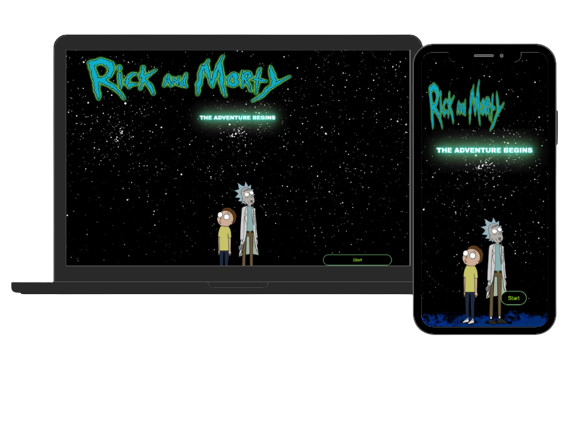
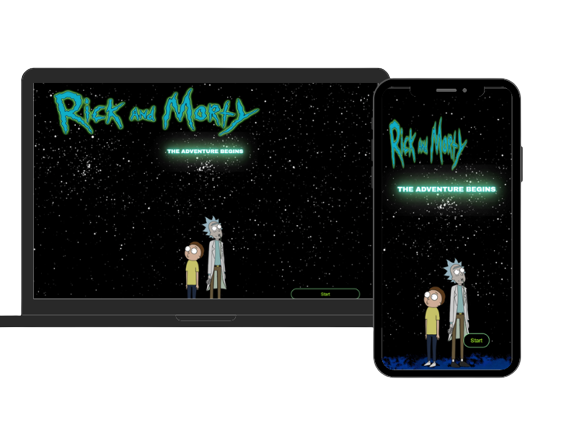
new proyect

diff --git a/assets/css/style.css b/assets/css/style.css
@@ -1,6 +1,12 @@
 /*--------------------------------------------------------------
 # General
 --------------------------------------------------------------*/
+:root {
+  --primary: black;
+  --secundary: #f035f6;
+  --white: #fff;
+}
+
 body {
   font-family: "Open Sans", sans-serif;
   background-color: #040404;
@@ -12,7 +18,9 @@ body {
 body::before {
   content: "";
   position: fixed;
-  background: #040404 url("../img/bg.png") top right no-repeat;
+  background: url("../img/bg.png") top right no-repeat;
+
+  background-image: url("../img/bg.png"), linear-gradient(to right, #434343 0%, black 100%);
   background-size: contain;
   left: 0;
   right: 0;
@@ -28,12 +36,12 @@ body::before {
 }
 
 a {
-  color: #18d26e;
+  color: var(--secundary);
   text-decoration: none;
 }
 
 a:hover {
-  color: #35e888;
+  color: var(--secundary);
   text-decoration: none;
 }
 
@@ -74,7 +82,7 @@ h6 {
 
 #header h1 a,
 #header h1 a:hover {
-  color: #fff;
+  color: var(--white);
   line-height: 1;
   display: inline-block;
 }
@@ -86,8 +94,8 @@ h6 {
 }
 
 #header h2 span {
-  color: #fff;
-  border-bottom: 2px solid #18d26e;
+  color: var(--white);
+  border-bottom: 2px solid var(--secundary);
   padding-bottom: 6px;
 }
 
@@ -107,7 +115,7 @@ h6 {
   justify-content: center;
   align-items: center;
   background: rgba(255, 255, 255, 0.1);
-  color: #fff;
+  color: var(--white);
   line-height: 1;
   margin-right: 8px;
   border-radius: 50%;
@@ -116,7 +124,7 @@ h6 {
 }
 
 #header .social-links a:hover {
-  background: #18d26e;
+  background: var(--secundary);
 }
 
 @media (max-width: 992px) {
@@ -147,7 +155,7 @@ h6 {
   left: 0;
   top: 0;
   right: 0;
-  background: rgba(0, 0, 0, 0.9);
+  background: var(--primary);
 }
 
 #header.header-top .social-links,
@@ -234,7 +242,7 @@ h6 {
   height: 2px;
   bottom: -4px;
   left: 0;
-  background-color: #18d26e;
+  background-color: var(--secundary);
   visibility: hidden;
   width: 0px;
   transition: all 0.3s ease-in-out 0s;
@@ -251,14 +259,14 @@ h6 {
 .navbar .active,
 .navbar .active:focus,
 .navbar li:hover>a {
-  color: #fff;
+  color: var(--white);
 }
 
 /**
 * Mobile Navigation 
 */
 .mobile-nav-toggle {
-  color: #fff;
+  color: var(--white);
   font-size: 28px;
   cursor: pointer;
   display: none;
@@ -286,7 +294,7 @@ h6 {
   right: 0;
   left: 0;
   bottom: 0;
-  background: rgba(0, 0, 0, 0.9);
+  background: var(--primary);
   transition: 0.3s;
   z-index: 999;
   margin-top: 0;
@@ -347,7 +355,7 @@ section.section-show {
 }
 
 section .container {
-  background: rgba(0, 0, 0, 0.9);
+  background: var(--primary);
   padding: 30px;
 }
 
@@ -378,7 +386,7 @@ section .container {
   width: 120px;
   height: 1px;
   display: inline-block;
-  background: #4ceb95;
+  background: var(--secundary);
   margin: 4px 10px;
 }
 
@@ -389,7 +397,7 @@ section .container {
   font-weight: 700;
   text-transform: uppercase;
   font-family: "Poppins", sans-serif;
-  color: #fff;
+  color: var(--white);
 }
 
 /*--------------------------------------------------------------
@@ -398,7 +406,7 @@ section .container {
 .about-me .content h3 {
   font-weight: 700;
   font-size: 26px;
-  color: #18d26e;
+  color: var(--secundary);
 }
 
 .about-me .content ul {
@@ -419,7 +427,7 @@ section .container {
 .about-me .content ul i {
   font-size: 16px;
   margin-right: 5px;
-  color: #18d26e;
+  color: var(--secundary);
   line-height: 0;
 }
 
@@ -452,24 +460,12 @@ section .container {
   padding: 0;
   line-height: 1;
   font-size: 16px;
-  color: #fff;
+  color: var(--white);
 }
 
 .interests .icon-box:hover {
   background: rgba(255, 255, 255, 0.12);
 }
-
-
-
-
-
-
-
-
-
-
-
-
 
 /*--------------------------------------------------------------
 # Portfolio
@@ -504,7 +500,7 @@ section .container {
 
 .portfolio #portfolio-flters li:hover,
 .portfolio #portfolio-flters li.filter-active {
-  background: #18d26e;
+  background: var(--secundary);
 }
 
 .portfolio #portfolio-flters li:last-child {
@@ -604,7 +600,7 @@ section .container {
 }
 
 .portfolio .portfolio-wrap .portfolio-links a:hover {
-  color: #63eda3;
+  color: var(--secundary);
 }
 
 .portfolio .portfolio-wrap:hover::before {
@@ -653,7 +649,7 @@ section .container {
 
 .contact .info-box i.bx {
   font-size: 24px;
-  color: #18d26e;
+  color: var(--secundary);
   border-radius: 50%;
   padding: 14px;
   float: left;
@@ -690,11 +686,11 @@ section .container {
 }
 
 .contact .info-box .social-links a:hover {
-  color: #18d26e;
+  color: var(--secundary);
 }
 
 .btn {
-  background: linear-gradient(-45deg, #575558, #2c3333);
+  background: var(--primary);
   margin: 10px 0 40px 140px;
   ;
   padding: 2px;
@@ -707,16 +703,6 @@ section .container {
     padding: 10px;
   }
 }
-
-
-
-
-
-
-
-
-
-
 
 
 
@@ -741,7 +727,7 @@ section .container {
 }
 
 .credits a {
-  color: #18d26e;
+  color: var(--secundary);
   transition: 0.3s;
 }
 

diff --git a/index.html b/index.html
@@ -59,6 +59,8 @@
       </div>
 
     </div>
+
+
   </header><!-- End Header -->
 
   <!-- ======= About Section ======= -->
@@ -203,6 +205,19 @@
 
 
       <div class="row portfolio-container">
+        <div class="col-lg-4 col-md-6 portfolio-item filter-app">
+          <div class="portfolio-wrap">
+            <img src="assets/img/portfolio/tinDog.png" class="img-fluid" alt="">
+            <div class="portfolio-info">
+              <div class="portfolio-links">
+                <a href="https://github.com/Tatianarangoc/tinDog" target="_blank"><i class="bi bi-github"></i></a>
+                <a href=https://tatianarangoc.github.io/tinDog/ data-gallery="portfolioDetailsGallery"
+                  data-glightbox="type: external" class="portfolio-details-lightbox" title="Portfolio Details"><i
+                    class="bx bx-link"></i></a>
+              </div>
+            </div>
+          </div>
+        </div>
 
         <div class="col-lg-4 col-md-6 portfolio-item filter-app">
           <div class="portfolio-wrap">
